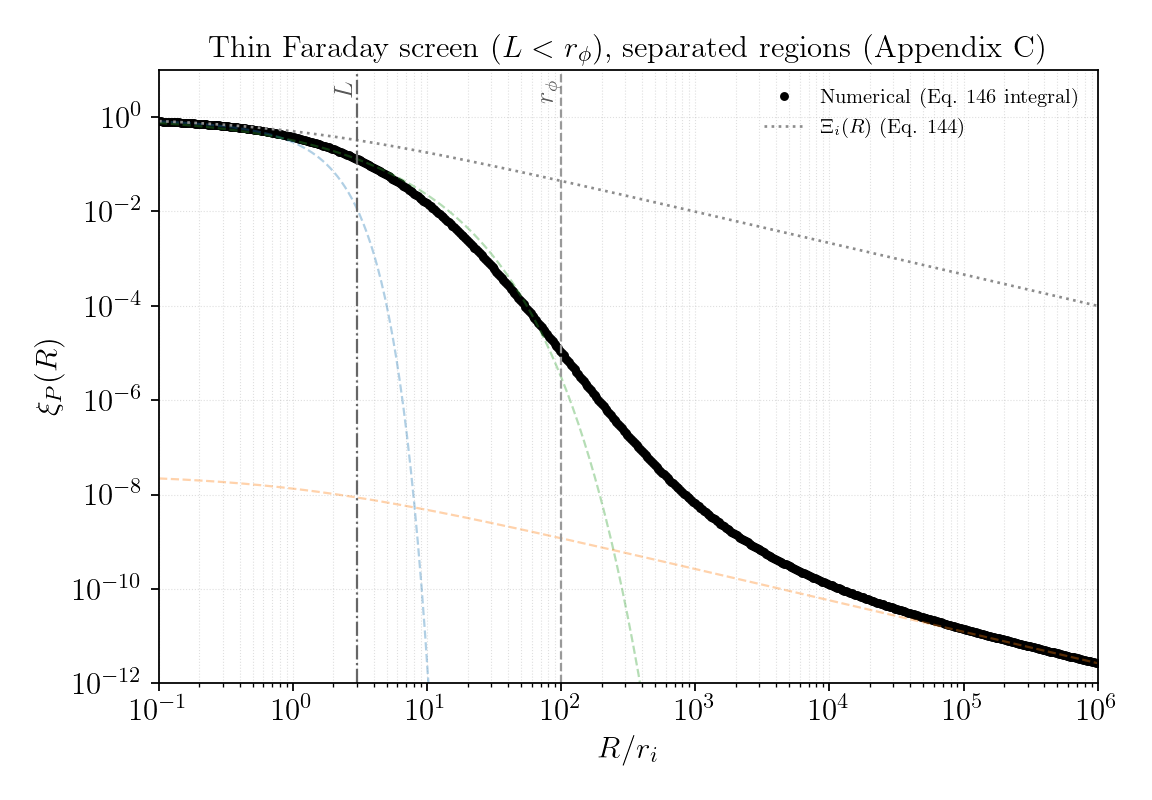
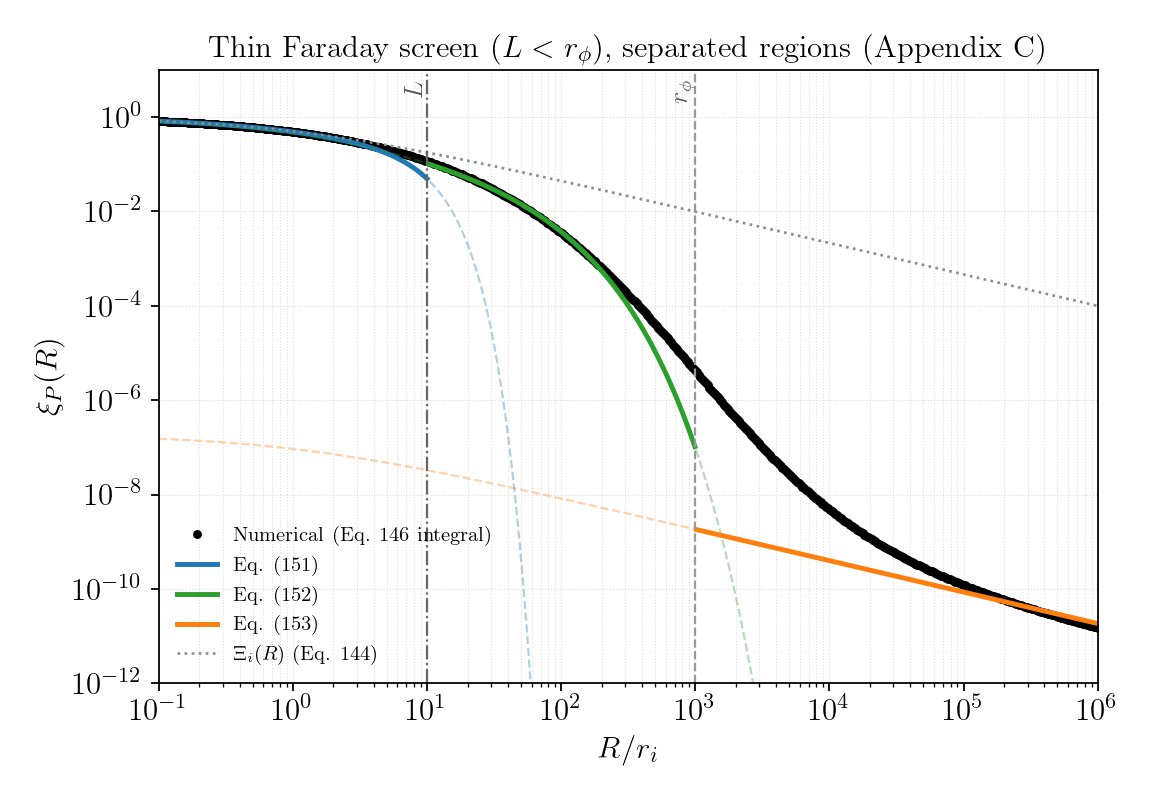
Adjusting the fitting parameters

diff --git a/LP_16 reproduction/Figure4(separated).py b/LP_16 reproduction/Figure4(separated).py
@@ -95,9 +95,9 @@ def plot_one_screen(screen_type, params, outfile_png):
         labels = [r"Eq. (148)", r"Eq. (149)", r"Eq. (150)"]
         title = "Thick Faraday screen ($L > r_\\phi$), separated regions (Appendix C)"
         
-        R_match1 = Rmin
-        R_match2 = r_phi
-        R_match3 = Rmax
+        R_match1 = 0.1 * r_phi
+        R_match2 = np.sqrt(r_phi * L)
+        R_match3 = Rmax#10.0 * L
     else:
         D1, D2, D3 = D_asym_thin(R, L=L, r_phi=r_phi, m_phi=m_phi, sigma2=sigma2)
         m1 = R < L
@@ -106,26 +106,32 @@ def plot_one_screen(screen_type, params, outfile_png):
         labels = [r"Eq. (151)", r"Eq. (152)", r"Eq. (153)"]
         title = "Thin Faraday screen ($L < r_\\phi$), separated regions (Appendix C)"
         
-        R_match1 = Rmin
-        R_match2 = L
-        R_match3 = Rmax
+        R_match1 = 0.1 * L
+        R_match2 = np.sqrt(L * r_phi)
+        R_match3 = Rmax#10.0 * r_phi
     
-    Dnum_match1 = D_DeltaPhi_numeric(np.array([R_match1]), L=L, r_phi=r_phi, m_phi=m_phi, sigma2=sigma2, Nu=6000)[0]
-    Dnum_match2 = D_DeltaPhi_numeric(np.array([R_match2]), L=L, r_phi=r_phi, m_phi=m_phi, sigma2=sigma2, Nu=6000)[0]
-    Dnum_match3 = D_DeltaPhi_numeric(np.array([R_match3]), L=L, r_phi=r_phi, m_phi=m_phi, sigma2=sigma2, Nu=6000)[0]
+    R_match1 = np.clip(R_match1, Rmin, Rmax)
+    R_match2 = np.clip(R_match2, Rmin, Rmax)
+    R_match3 = np.clip(R_match3, Rmin, Rmax)
     
     if screen_type == "thick":
-        D1_asym_match, _, _ = D_asym_thick(np.array([R_match1]), L=L, r_phi=r_phi, m_phi=m_phi, sigma2=sigma2)
-        _, D2_asym_match, _ = D_asym_thick(np.array([R_match2]), L=L, r_phi=r_phi, m_phi=m_phi, sigma2=sigma2)
-        _, _, D3_asym_match = D_asym_thick(np.array([R_match3]), L=L, r_phi=r_phi, m_phi=m_phi, sigma2=sigma2)
+        fit1 = (R < 0.3*r_phi)
+        fit2 = (R > 3*r_phi) & (R < 0.3*L)
+        fit3 = (R > 50*L)
     else:
-        D1_asym_match, _, _ = D_asym_thin(np.array([R_match1]), L=L, r_phi=r_phi, m_phi=m_phi, sigma2=sigma2)
-        _, D2_asym_match, _ = D_asym_thin(np.array([R_match2]), L=L, r_phi=r_phi, m_phi=m_phi, sigma2=sigma2)
-        _, _, D3_asym_match = D_asym_thin(np.array([R_match3]), L=L, r_phi=r_phi, m_phi=m_phi, sigma2=sigma2)
+        fit1 = (R < 0.3*L)
+        fit2 = (R > 3*L) & (R < 0.3*r_phi)
+        fit3 = (R > 100*r_phi)
     
-    norm1 = Dnum_match1 / D1_asym_match[0] if D1_asym_match[0] > 0 else 1.0
-    norm2 = Dnum_match2 / D2_asym_match[0] if D2_asym_match[0] > 0 else 1.0
-    norm3 = Dnum_match3 / D3_asym_match[0] if D3_asym_match[0] > 0 else 1.0
+    def fit_norm(Dnum, Dasym, mask):
+        sel = mask & np.isfinite(Dnum) & np.isfinite(Dasym) & (Dnum > 0) & (Dasym > 0)
+        if sel.sum() < 10:
+            return 1.0
+        return np.exp(np.mean(np.log(Dnum[sel]) - np.log(Dasym[sel])))
+    
+    norm1 = fit_norm(Dnum, D1, fit1)
+    norm2 = fit_norm(Dnum, D2, fit2)
+    norm3 = fit_norm(Dnum, D3, fit3)
     
     D1 = D1 * norm1
     D2 = D2 * norm2
@@ -142,7 +148,7 @@ def plot_one_screen(screen_type, params, outfile_png):
     colors = ["C0", "C2", "C1"]
     for y, mask, c, lab in zip([y1, y2, y3], [m1, m2, m3], colors, labels):
         ax.loglog(x, y, ls="--", lw=1.0, color=c, alpha=0.35)
-        # ax.loglog(x[mask], y[mask], ls="-", lw=2.2, color=c, label=lab)
+        ax.loglog(x[mask], y[mask], ls="-", lw=2.2, color=c, label=lab)
 
     ax.loglog(x, Xi, lw=1.2, color="0.55", ls=":", label=r"$\Xi_i(R)$ (Eq. 144)")
     ax.axvline(r_phi / r_i, color="0.6", lw=1.0, ls="--")
@@ -187,17 +193,17 @@ def main():
     params_thick = dict(base)
     params_thick.update(
         r_phi=10.0,
-        L=1000.0,
+        L=10000.0,
         lam=1.0,
-        sigma_phi2=0.00003,
+        sigma_phi2=0.000001,
     )
 
     params_thin = dict(base)
     params_thin.update(
-        r_phi=100.0,
-        L=3.0,
+        r_phi=1000.0,
+        L=10.0,
         lam=1.5,
-        sigma_phi2=0.1,
+        sigma_phi2=0.008,
     )
 
     plot_one_screen("thin",  params_thin,  "xiP_separated_thin.png")
